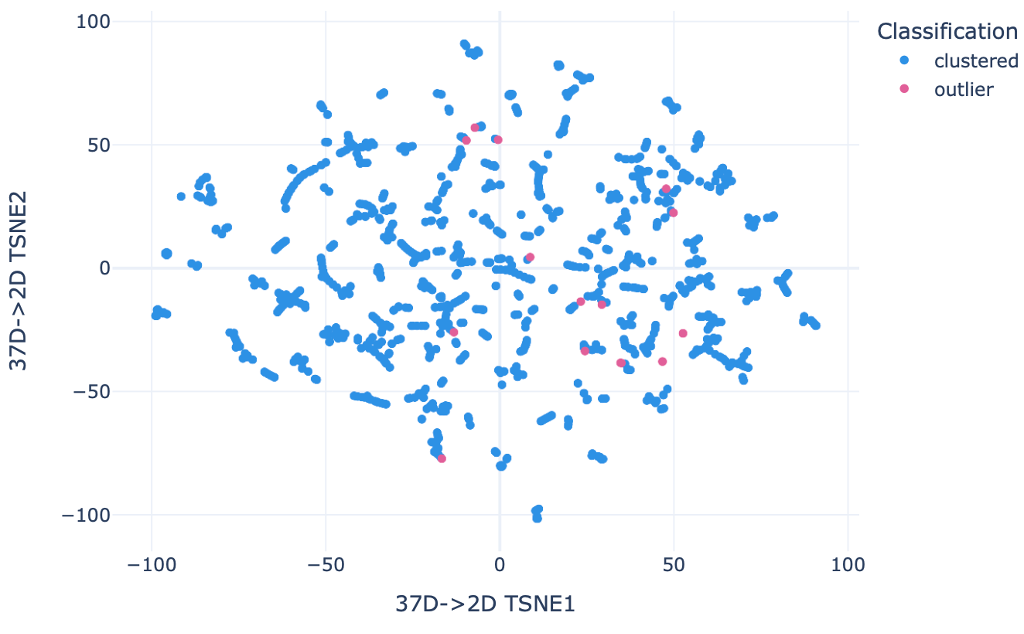
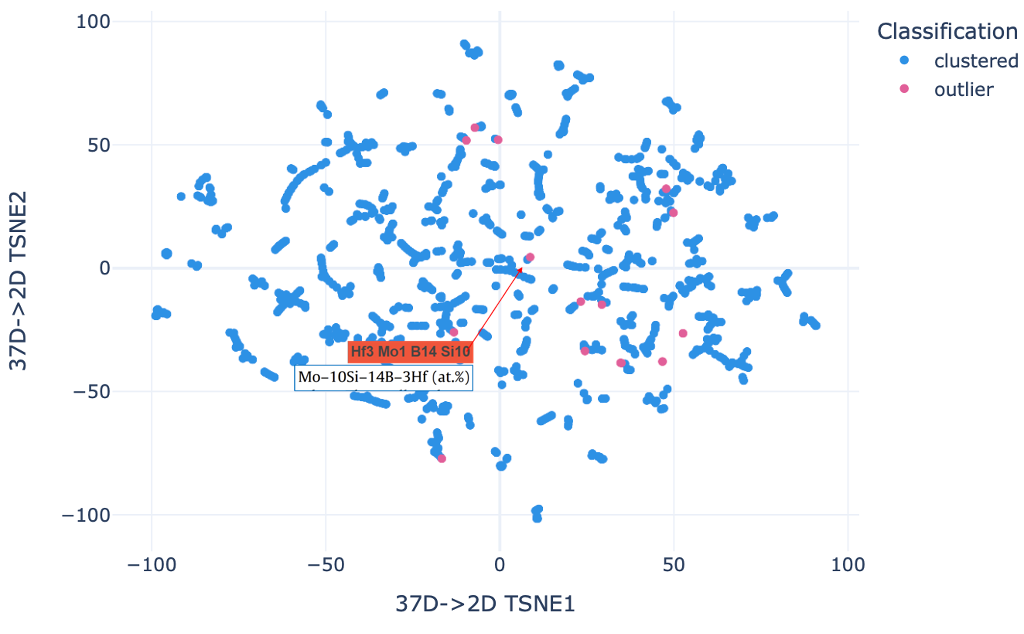
Updates from Overleaf

Changed region(s): [[0.2812, 0.5394, 0.4688, 0.6293]]

diff --git a/mpdd.tex b/mpdd.tex
@@ -1,20 +1,118 @@
 \chapter{Handling Millions of Atomic Structures} \label{chap:mpdd}
 
+\acknowledge{
+This chapter adapts parts of a manuscript draft planned for publication before dissertation submission, co-authored with Ricardo Amaral, Jonathan W. Siegel, and Zi-Kui Liu. All of included text was written by Adam M. Krajewski. Described software has been developed by Adam M. Krajewski since 2020 with assistance from Jonathan W. Siegel and Ricardo Amaral. Zi-Kui Liu provided edits and guidance. It also adapts excerpt written by Adam M. Krajewski for \citet{Evans2024DevelopmentsExchange} reproduced from Digital Discovery journal under CC BY 3.0 license. 
+}
+
+
 \section{Introduction} \label{mpdd:sec:background}
 
 A
 
 
+
 \section{The Material-Property-Descriptor Database} \label{mpdd:sec:mpdd}
 
+\subsection{Motivation} \label{mpdd:ssec:motivation}
 
-B
+The Material-Property-Descriptor Database (MPDD) is an extensive (4.5M+) database of \emph{ab initio} relaxations of 3D crystal structures,  combined with an infrastructure of tools allowing efficient descriptor calculation (featurization), as well as the deployment of ML models like \texttt{SIPFENN} \cite{Krajewski2024EfficientStructures} described in Chapter \ref{chap:sipfenn}, and other developed by the community.
+
+The most critical motivation behind MPDD is the retention of intermediate modeling data (atomistic features features), including structure-informed descriptors described in Chapter \ref{chap:pysipfenn}, which typically cost orders of magnitude more computational time than any of the other steps performed during ML model deployment~\cite{Krajewski2022ExtensibleNetworks}. Thus, many ML models can be run at a small fraction of the original cost if the same descriptor (or, more commonly, a subset chosen through feature selection) is used. This benefit applies regardless of whether a model is just another iteration, e.g., fine-tuned to a specific class of materials like perovskites, or an entirely new model for a different property.
+
+Thus, machine learning researchers can effortlessly take advantage of MPDD to deploy numerous ML models directly to the community without needing to construct individual deployment targets, which are typically both much smaller and redundant relative to existing datasets.
+
+Furthermore, MPDD's access to stored atomic structures and associated metadata has been shown to be useful, for instance, in the fully data-driven prediction of atomic structures (validated with DFT and experiments). It, for instance allowed quick identification of unknown structures in Nd-Bi~\cite{Im2022ThermodynamicModeling} and Al-Fe~\cite{Shang2021FormingJoints} systems, what is discussed in more detail in Chapter \ref{chap:crystall}.
+
+\subsection{Design Philosophy} \label{mpdd:ssec:designphilosophy}
+
+\begin{figure}[H]
+    \centering
+    \includegraphics[width=0.4\textwidth]{mpdd/MPDD_CoreTriplet.png}
+    \caption{Three entities at the core of MPDD treated as "first class citizens" interacting with each other. Going counter-clockwise \emph{Materials} cover our past sampling of the problem domain, \emph{Descriptors} cover our understanding of it, and \emph{Properties} determine utility. Going clockwise desired \emph{Properties} guide analysis leading to understanding encoded in \emph{Descriptors}, which inform us of unexplored regions of problem domain in their individual contexts.}
+    \label{mpdd:fig:core}
+\end{figure}
+
+
+
+\subsection{Dataset} \label{mpdd:ssec:dataset}
+
+DFT-based databases including OQMD \cite{Saal2013MaterialsOQMD, Kirklin2015TheEnergies, Shen2022ReflectionsOQMD}, AFLOW \cite{Curtarolo2013AFLOW:Discovery, Toher2018TheDiscovery}, Materials Project \cite{Jain2013Commentary:Innovation}, NIST-JARVIS \cite{Choudhary2020TheDesign}, Alexandria \cite{Schmidt2022AFunctionals}, CAMD \cite{Ye2022NovelAgents}, GNoME \cite{Merchant2023ScalingDiscovery}, and in-house datasets including phonon calculations created with DFTTK \cite{Wang2021DFTTK:Calculations}. Hundreds of thousands of experimentally observed entries from Crystallography Open Database (COD) \cite{Grazulis2009CrystallographyStructures, Grazulis2012CrystallographyCollaboration, Grazulis2019CrystallographyPerspectives}.
+
+
+\begin{figure}[H]
+    \centering
+    \includegraphics[width=0.4\textwidth]{mpdd/Screenshot 2024-05-05 at 11.54.32.png}
+    \includegraphics[width=0.4\textwidth]{mpdd/Screenshot 2024-05-05 at 11.54.47.png}
+    \caption{Key statistics over MPDD dataset as of April 2024 demonstrating (1) extent of the dataset and (2) high diversity of chemical space coverage over all elements.}
+    \label{mpdd:fig:dataset}
+\end{figure}
+
+\subsection{Infrastructure} \label{mpdd:ssec:infrastructure}
+
+\todo
+
+\begin{figure}[H]
+    \centering
+    \includegraphics[width=0.4\textwidth]{mpdd/mpdd_core.png}
+    \caption{Main schematic of the MPDD Database }
+    \label{mpdd:fig:schematic}
+\end{figure}
+
+
+\section{MPDD-eXchange} \label{mpdd:sec:mpddx}
+
+\todo
+
+\begin{figure}[H]
+    \centering
+    \includegraphics[width=0.7\textwidth]{mpdd/mpddx1.png}
+    \caption{Printout of the greeting message on issues opened with auto-assigned \texttt{contrib} label instructing user how to send a contribution and what models will be run.}
+    \label{mpdd:fig:mpddx1}
+\end{figure}
+
+\todo
+
+\begin{figure}[H]
+    \centering
+    \includegraphics[width=0.7\textwidth]{mpdd/mpddx2.png}
+    \caption{Printout of the intermediate messages informing that validation checks are passing, if the user sent a properly formatted CIF or POSCAR files in a ZIP file. Otherwise (not depicted) messages would provide feedback on errors.}
+    \label{mpdd:fig:mpddx2}
+\end{figure}
+
+\todo
+
+\begin{figure}[H]
+    \centering
+    \includegraphics[width=0.7\textwidth]{mpdd/mpddx3.png}
+    \caption{Printout of final message after all computation is successfully completed. User is presented with (1) outputs of the ML models deployed on the data and (2) a unique contribution ID based on the commit hash, which can be cited as \texttt{contrib.mpdd.org/3760a0c7} or \texttt{mat-x.org/mpdd-3760a0c7} and points to persisted data record appended with ML results and calculation metadata.}
+    \label{mpdd:fig:mpddx3}
+\end{figure}
+
+
+\todo
+
+\begin{figure}[H]
+    \centering
+    \includegraphics[width=0.75\textwidth]{mpdd/mpddx4.png}
+    \caption{Printout of contribution record stored within git repository as auto-generated commit. Right after a successful commit, the system automatically generates a comment on it describing the structures included.}
+    \label{mpdd:fig:mpddx4}
+\end{figure}
+
 
 
 
 \section{Open Databases Integration for Materials Design (OPTIMADE) API} \label{mpdd:sec:optimade}
 
+\texttt{OPTIMADE} or the Open Databases Integration for Materials Design consortium has been established to make materials databases interoperable by developing a specification for a common REST API \cite{Evans2024DevelopmentsExchange}. That way, databases can remain independently maintained and tuned to specific needs, like ab initio data or ML data, while at the same time reporting on the contained knowledge so that redundant calculations are not performed and the efficiency of the materials informatics community at large is dramatically improved.
 
+MPDD has a stable OPTIMADE API that serves the entire core MPDD dataset, fully implementing \texttt{v1.1.0} of the OPTIMADE standard, as of April 2024, through a cloud server based on \texttt{optimade-python-tools} \cite{Evans2021}.
+Making the MPDD available via OPTIMADE was initially challenging, as MPDD stores and exchanges data in a way that prioritises high throughput and low storage requirements, including binary data, making it difficult or slow to make MPDD queryable as an OPTIMADE API on-the-fly.
+However, issues have been resolved by establishing a self-updating mirror of the dataset where structures are made OPTIMADE-compliant during transfer, which can occur within the same virtual machine or other integrated computing environment. Most of the MPDD-specific data is available under the \texttt{mpdd} namespace of \texttt{OPTIMADE}, including dictionaries of metadata (e.g., \texttt{\_mpdd\_atomicvolume}), properties (e.g., \texttt{\_mpdd\_formationenergy\_sipfenn\_krajewski2020\_lightmodel}), and descriptors (e.g., \texttt{\_mpdd\_descriptors.KS2022}), described earlier in this chapter.
+
+The base URL is available at:\\
+\hspace{36pt} \href{https://optimade.mpdd.org}{https://optimade.mpdd.org}\\
+and one can see a sample dataset response by following the \texttt{structures} endpoint at:\\
+\hspace{36pt} \href{https://optimade.mpdd.org/v1/structures}{https://optimade.mpdd.org/v1/structures}\\
 
 
 

diff --git a/pyqalloy.tex b/pyqalloy.tex
@@ -1,2 +1,103 @@
 \chapter{Detecting Abnormalities in Materials Data}  \label{chap:pyqalloy}
 
+
+\section{Introduction} \label{pyqalloy:sec:intro}
+
+\todo
+
+\begin{figure}[H]
+    \centering
+    \includegraphics[width=0.6\textwidth]{pyqalloy/AbnormalCompositionDetection_v1.png}
+    \caption{Schematic of \texttt{PyQAlloy} software operating in several contexts to detect and investigate common abnormalities discussed in Subsections \ref{pyqalloy:ssec:extreme} through \ref{pyqalloy:ssec:global}.}
+    \label{pyqalloy:fig:schematic}
+\end{figure}
+
+\section{Common Abnormalities and Detection of Errors} \label{pyqalloy:sec:abnormalities}
+
+
+\subsection{Extreme Values} \label{pyqalloy:ssec:extreme}
+
+\todo
+
+\begin{figure}[H]
+    \centering
+    \includegraphics[width=0.95\textwidth]{pyqalloy/pyqalloy_extremevalues.png}
+    \caption{A legacy, pre-curation ULTERA hardness data histogram. The extreme, out of distribution values (highlighted) indicate possible misinterpretation. Two out of three were misreported due to "extra 0" typo, while the highest one (27.5 GPa) was properly reported \ch{Mo_{40.5}Ni_{40.5}B_{10}Si_9} extremely hard metallic glass \cite{Kim2016DevelopmentRatios}. Similar analysis applies to extremely low values.}
+    \label{pyqalloy:fig:extreme}
+\end{figure}
+
+
+\begin{figure}[H]
+    \centering
+    \includegraphics[width=0.95\textwidth]{pyqalloy/pyqalloy_entropy.png}
+    \caption{An example of extreme value detection in secondary data characteristics relative to expectations. The legacy, pre-curation ULTERA data plot of ideal mixing entropy of a given alloy divided by the maximum ideal mixing entropy corresponding to the number of components present (value of $1$ indicates equimolar alloy). Extremely low values in this metric indicate high likelihood of "double click" or "missing comma" typos at data parsing which resulted in one element becoming highly dominant.}
+    \label{pyqalloy:fig:lowentropy}
+\end{figure}
+
+
+\subsection{Single Composition Patterns} \label{pyqalloy:ssec:singlecomp}
+
+\todo
+
+
+
+\subsection{Single Study Patterns}   \label{pyqalloy:ssec:singlestudy}
+
+\todo
+
+\begin{figure}[H]
+    \centering
+    \includegraphics[width=0.95\textwidth]{pyqalloy/pyqalloy_extremevalues.png}
+    \caption{Expected patterns in the PCA projections of high entropy alloy composition vectors onto a 2D plane common for vast majority of alloy design studies which either (left) take an alloy and progressively modify it through elemental substitutions or mixing with another alloy in one or more ways, resulting in one or more linear patterns, or (right) test many different elemental combinations that are thought to possibly work well in the application in a anti-systematic fashion (in chemical space) does not follow any lower dimensional pattern and results in a point cloud. Breaks in these patterns, like out-of-line points or anisotropic point clouds indicate possible errors and should be screened.}
+    \label{pyqalloy:fig:expectedpatterns}
+\end{figure}
+
+
+
+\begin{figure}[H]
+    \centering
+    \includegraphics[width=0.95\textwidth]{pyqalloy/pyqalloy_HumanError.png}
+    \caption{An example of out-of-line pattern detected in a literature review study. It was caused by the researcher parsing a publication incorrectly noting the composition relative to the source \cite{Wang2009AtomicAlloy}. Composition similar to other points makes it look right; thus, such errors are nearly impossible to catch using other methods.}
+    \label{pyqalloy:fig:patternbreak1}
+\end{figure}
+
+
+
+
+\begin{figure}[H]
+    \centering
+    \includegraphics[width=0.95\textwidth]{pyqalloy/pyqalloy_CompositionNotation.png}
+    \caption{An example of out-of-line pattern detected in a literature review study, in which chemical formulas present in the source publication \cite{Amigo2019MechanicalApplications} are correctly parsed. However, they are shorthand composition notations rather than actual chemical formulas of the studied material and need to be interpreted; thus, they are incorrectly reported. Such misinterpretations typically follow some incorrect patterns locally but fail to do so if any component is removed or added to the mix as depicted here.}
+    \label{pyqalloy:fig:patternbreak2}
+\end{figure}
+
+
+
+\subsection{Global Patterns} \label{pyqalloy:ssec:global}
+
+\todo
+
+\begin{figure}[H]
+    \centering
+    \includegraphics[width=0.95\textwidth]{pyqalloy/PyQAlloy_tSNE+DBSCAN.png}
+    \caption{2D tSNE embedding of all chemical compositions present in ULTERA based on alloy neighborhoods, overlaid with outliers detected through DBSCAN method operating in the high-dimensional real composition space. Singular outliers between tSNE clusters are expected and indicate novel compositions, while outliers within clusters indicate far removed members of an alloy family which are likely incorrect. The highlighted \ch{B-Hf-Mo-Si} alloy is close to other alloys in that system but fraction of \ch{Mo} was omitted by the parsing researcher. In the depicted case, abnormality was not detected by lower level methods because only one alloy was reported.}
+    \label{pyqalloy:fig:patternglobal}
+\end{figure}
+
+
+
+
+
+\section{Software Implementation} \label{pyqalloy:sec:software}
+
+\todo
+
+
+
+
+
+
+
+
+
+\printbibliography[heading=subbibintoc]

diff --git a/inversedesign.tex b/inversedesign.tex
@@ -1,7 +1,7 @@
 \chapter{Inverse Design of Compositionally Complex Alloys} \label{chap:inversedesign}
 
 \acknowledge{
-This chapter adopts verbatim selected excerpts and figures of past co-authored publications led by Arindam Debnath and Wenjie Li published under \citet{Debnath2021GenerativeAlloys}, \citet{Debnath2023ComparingAlloys}, and \citet{Li2024DesignExperiments}. Other authors on these works were Lavanya Raman, Marcia Ahn, Shuang Lin, Shunli Shang, Hui Sun, Shashank Priya, Jogender Singh, Wesley F Reinhart, Zi-Kui Liu and Allison M Beese. Majority of content adopted in this chapter is has specifically been writen or co-written by Adam M. Krajewski. The majority of described ML efforts has been led by Arindam Debnath, while Adam M. Krajewski led training data and model deployment pipelines.
+This chapter adapts verbatim selected excerpts and figures of past co-authored publications led by Arindam Debnath and Wenjie Li published under \citet{Debnath2021GenerativeAlloys}, \citet{Debnath2023ComparingAlloys}, and \citet{Li2024DesignExperiments}. Other authors on these works were Lavanya Raman, Marcia Ahn, Shuang Lin, Shunli Shang, Hui Sun, Shashank Priya, Jogender Singh, Wesley F Reinhart, Zi-Kui Liu and Allison M Beese. Majority of content adopted in this chapter is has specifically been writen or co-written by Adam M. Krajewski. The majority of described ML efforts has been led by Arindam Debnath, while Adam M. Krajewski led training data and model deployment pipelines.
 }
 
 A

diff --git a/introduction.tex b/introduction.tex
@@ -5,6 +5,19 @@
 
 
 
+\begin{figure}[H]
+    \centering
+    \includegraphics[width=0.7\textwidth]{intro/DissertationOutline.pdf}
+    \caption{
+    Jet engine photo from Olivier Cleynen under CC
+    Hypersonic vehicle render by DARPA from public domain.
+    }
+    \label{intro:fig:outline}
+\end{figure}
+
+Per DOE ARPA-E estimates, developing a standalone alloy which could continuously operate at $1300^oC$ has the potential to increase gas turbine efficiency up to 7\%, which will significantly reduce wasted energy and carbon emissions by saving up to 20 quads of energy in electricity generation and civilian aviation between now and 2050 \cite{ULTIMATEArpa-e.energy.gov}. Such efficiency increase could prevent release of approximately 1,000,000,000,000 kg of \ch{CO_2} from burning natural gas, or double that from coal.
+
+
 Another extreme environment application is the class of hypersonic vehicles which travel faster than 5 times the speed of sound \emph{through Earth's atmosphere for extended periods of time}, thus, generating extreme sustained temperatures within structural components. This prompts the need for novel materials and engineering techniques, as evidenced by massive funding assigned to this research areas by United States military which increased its yearly budgets for hypersonic \emph{research} from \$3.8 billion in FY2022, to \$4.7 billion in FY2023, and to an undisclosed amount this year (FY2024) \cite{Sayler2024HypersonicCongress}.
 
 

diff --git a/crystall.tex b/crystall.tex
@@ -1,7 +1,7 @@
 \chapter{Ergodic Ensemble Approach to the Material Discovery} \label{chap:crystall}
 
 \acknowledge{
-This chapter adopts parts of a manuscript draft planned for publication before dissertation submission, co-authored with Ricardo Amaral, Jonathan W. Siegel, Rushi Gong, ShunLi Shang, and Zi-Kui Liu. All of included text was written by Adam M. Krajewski. Described software has been developed by Adam M. Krajewski since 2020 and by Ricardo Amaral since 2024, with Rushi Gong and ShunLi Shang developing it through testing-feedback loop. ShunLi Shang and Zi-Kui Liu provided edits and guidance. It also adapts excerpt written by Adam M. Krajewski for \citet{Im2022ThermodynamicModeling}. 
+This chapter adapts parts of a manuscript draft planned for publication before dissertation submission, co-authored with Ricardo Amaral, Jonathan W. Siegel, Rushi Gong, ShunLi Shang, and Zi-Kui Liu. All of included text was written by Adam M. Krajewski. Described software has been developed by Adam M. Krajewski since 2020 and by Ricardo Amaral since 2024, with Rushi Gong and ShunLi Shang developing it through testing-feedback loop. ShunLi Shang and Zi-Kui Liu provided edits and guidance. It also adapts excerpt written by Adam M. Krajewski for \citet{Im2022ThermodynamicModeling}. 
 }
 
 \section{New Stable Structure Prediction?} \label{crystall:sec:newstable}

diff --git a/infeasibilitygliding.tex b/infeasibilitygliding.tex
@@ -1,7 +1,7 @@
 \chapter{Infeasibility Gliding in Compositional Spaces} \label{chap:infeasibilitygliding}
 
 \acknowledge{
-This chapter adopts parts of a manuscript draft planned for publication before dissertation submission, co-authored with Arindam Debnath, Shuang Lin, Alexander Richter, Ricardo Amaral, Wesley F. Reinhart, Allison M. Beese, and Zi-Kui Liu. All of included text was written by Adam M. Krajewski. Described software has been developed by Adam M. Krajewski extending \texttt{nimplex} described in Chapter \ref{chap:nimplex} and used to generate results employing thermodynamic models developed by Shuang Lin. All other authors provided edits and guidance.
+This chapter adapts parts of a manuscript draft planned for publication before dissertation submission, co-authored with Arindam Debnath, Shuang Lin, Alexander Richter, Ricardo Amaral, Wesley F. Reinhart, Allison M. Beese, and Zi-Kui Liu. All of included text was written by Adam M. Krajewski. Described software has been developed by Adam M. Krajewski extending \texttt{nimplex} described in Chapter \ref{chap:nimplex} and used to generate results employing thermodynamic models developed by Shuang Lin. All other authors provided edits and guidance.
 }
 
 A

diff --git a/pysipfenn.tex b/pysipfenn.tex
@@ -2,7 +2,7 @@
 \chapter{Efficient Structure-Informed Featurization and Property Prediction of Ordered, Dilute, and Random Atomic Structures} \label{chap:pysipfenn}
 
 \acknowledge{
-This chapter adopts verbatim a preprint by \citet{Krajewski2024EfficientStructures} submitted for publication to the journal of Computational Materials Science. This work was co-authored with Jonathan Siegel and Zi-Kui Liu. All text was written by Adam M. Krajewski with Jonathan Siegel co-writing Section \ref{pysipfenn:ssec:Ward2017Translation} and associated software. Zi-Kui Liu provided edits and guidance.
+This chapter adapts verbatim a preprint by \citet{Krajewski2024EfficientStructures} submitted for publication to the journal of Computational Materials Science. This work was co-authored with Jonathan Siegel and Zi-Kui Liu. All text was written by Adam M. Krajewski with Jonathan Siegel co-writing Section \ref{pysipfenn:ssec:Ward2017Translation} and associated software. Zi-Kui Liu provided edits and guidance.
 }
 
 \section{Introduction} \label{pysipfenn:sec:Introduction}

diff --git a/nimcso.tex b/nimcso.tex
@@ -1,7 +1,7 @@
 \chapter{Optimization of Compositional Dataset Domain towards Reliable Machine Learning Training and Deployment} \label{chap:nimcso}
 
 \acknowledge{
-This chapter adopts verbatim a preprint by \citet{Krajewski2024NimCSO:Optimization} submitted for publication to the Journal of Open Source Software. This work was co-authored with Arindam Debnath, Wesley F. Reinhart, Allison M. Beese, and Zi-Kui Liu. All text and associated software was written by Adam M. Krajewski, while co-authors provided edits and guidance.
+This chapter adapts verbatim a preprint by \citet{Krajewski2024NimCSO:Optimization} submitted for publication to the Journal of Open Source Software. This work was co-authored with Arindam Debnath, Wesley F. Reinhart, Allison M. Beese, and Zi-Kui Liu. All text and associated software was written by Adam M. Krajewski, while co-authors provided edits and guidance.
 }
 
 \section{Background and Motivation} \label{nimcso:sec:background}

diff --git a/nimplex.tex b/nimplex.tex
@@ -1,7 +1,7 @@
 \chapter{Efficient generation of grids and traversal graphs in compositional spaces towards exploration and path planning exemplified in materials} \label{chap:nimplex}
 
 \acknowledge{
-This chapter adopts verbatim a preprint by \citet{Krajewski2024Nimplex} submitted for publication to the npj Unconventional Computing. This work was co-authored with Wesley F. Reinhart, Allison M. Beese, and Zi-Kui Liu. All text and associated software was written by Adam M. Krajewski, while co-authors provided edits and guidance.
+This chapter adapts verbatim a preprint by \citet{Krajewski2024Nimplex} submitted for publication to the npj Unconventional Computing. This work was co-authored with Wesley F. Reinhart, Allison M. Beese, and Zi-Kui Liu. All text and associated software was written by Adam M. Krajewski, while co-authors provided edits and guidance.
 }
 
 

diff --git a/main.tex b/main.tex
@@ -25,6 +25,7 @@
 \usepackage[scaled]{beramono}
 \renewcommand{\familydefault}{\sfdefault} 
 \definecolor{darkgreen}{rgb}{0.05, 0.3, 0.1}
+%\usepackage[htt]{hyphenat} %texttt hyphenation breaks
 \let\oldtexttt\texttt
 \renewcommand{\texttt}[1]{\oldtexttt{\textcolor{darkgreen}{#1}}}
 
